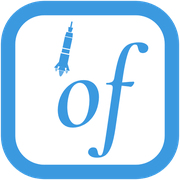
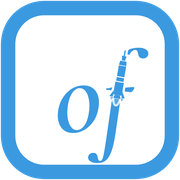
Put the rocket inside the f; use the rocket-f as the wordmark's "of"
The tab icon is the boxed rocket-f, and the nav/footer drop the separate
icon in favor of the rocket-f image as the "of" in ofHuntsville.

Claude-Session: https://claude.ai/code/session_01MZECRz1zKExAjjwG7KfMTn

Changed region(s): [[0.4722, 0.2222, 0.8333, 0.9167], [0.3056, 0.4444, 0.5556, 0.75], [0.3056, 0.1111, 0.4167, 0.4444]]

diff --git a/hosting.html b/hosting.html
@@ -6,8 +6,8 @@
   <title>ofHuntsville - Free Websites for Huntsville</title>
   <meta name="description" content="Free websites for Huntsville's local businesses, artists and makers, at yourname.ofhuntsville.org.">
   <meta name="robots" content="noindex">
-  <link rel="icon" type="image/png" sizes="32x32" href="hosting/ofh-icon-32.png?v=11">
-  <link rel="apple-touch-icon" href="hosting/ofh-icon-180.png?v=11">
+  <link rel="icon" type="image/png" sizes="32x32" href="hosting/ofh-icon-32.png?v=12">
+  <link rel="apple-touch-icon" href="hosting/ofh-icon-180.png?v=12">
   <link rel="preconnect" href="https://fonts.googleapis.com">
   <link rel="preconnect" href="https://fonts.gstatic.com" crossorigin>
   <link href="https://fonts.googleapis.com/css?family=Montserrat:400,500,600,700,800|Cormorant+Garamond:500i,600i&display=swap" rel="stylesheet">
@@ -31,8 +31,8 @@
 
     /* Wordmark */
     .wordmark { font-weight: 800; letter-spacing: -.02em; color: var(--text); text-decoration: none; white-space: nowrap; }
-    .wordmark .of { color: var(--blue); font-family: "Cormorant Garamond", Garamond, serif; font-style: italic; font-weight: 600; font-size: 1.5em; letter-spacing: 0; margin-right: .08em; line-height: 1; }
-    .wordmark { display: inline-flex; align-items: center; }
+    .wordmark img.of { height: 2.5em; width: auto; vertical-align: -.78em; margin-right: .05em; display: inline-block; }
+    .wordmark { display: inline-block; }
     .wordmark .mark { width: 46px; height: 46px; margin-right: 10px; display: block; }
     footer .wordmark .mark { width: 56px; height: 56px; }
 
@@ -167,7 +167,7 @@
 <body>
   <nav class="nav">
     <div class="container">
-      <a class="wordmark" href="#top"><img class="mark" src="hosting/ofh-icon-180.png?v=11" alt=""><span class="of">of</span>Huntsville</a>
+      <a class="wordmark" href="#top"><img class="of" src="hosting/of-rocket.png?v=12" alt="of">Huntsville</a>
       <div class="nav-links">
         <a href="#how" class="hide-sm">How it works</a>
         <a href="#pricing" class="hide-sm">Pricing</a>
@@ -317,7 +317,7 @@
     <div class="container">
       <div class="row">
         <div>
-          <a class="wordmark" href="#top"><img class="mark" src="hosting/ofh-icon-180.png?v=11" alt=""><span class="of">of</span>Huntsville</a>
+          <a class="wordmark" href="#top"><img class="of" src="hosting/of-rocket.png?v=12" alt="of">Huntsville</a>
           <p class="tag">Websites for the people of Huntsville.</p>
         </div>
         <nav>
